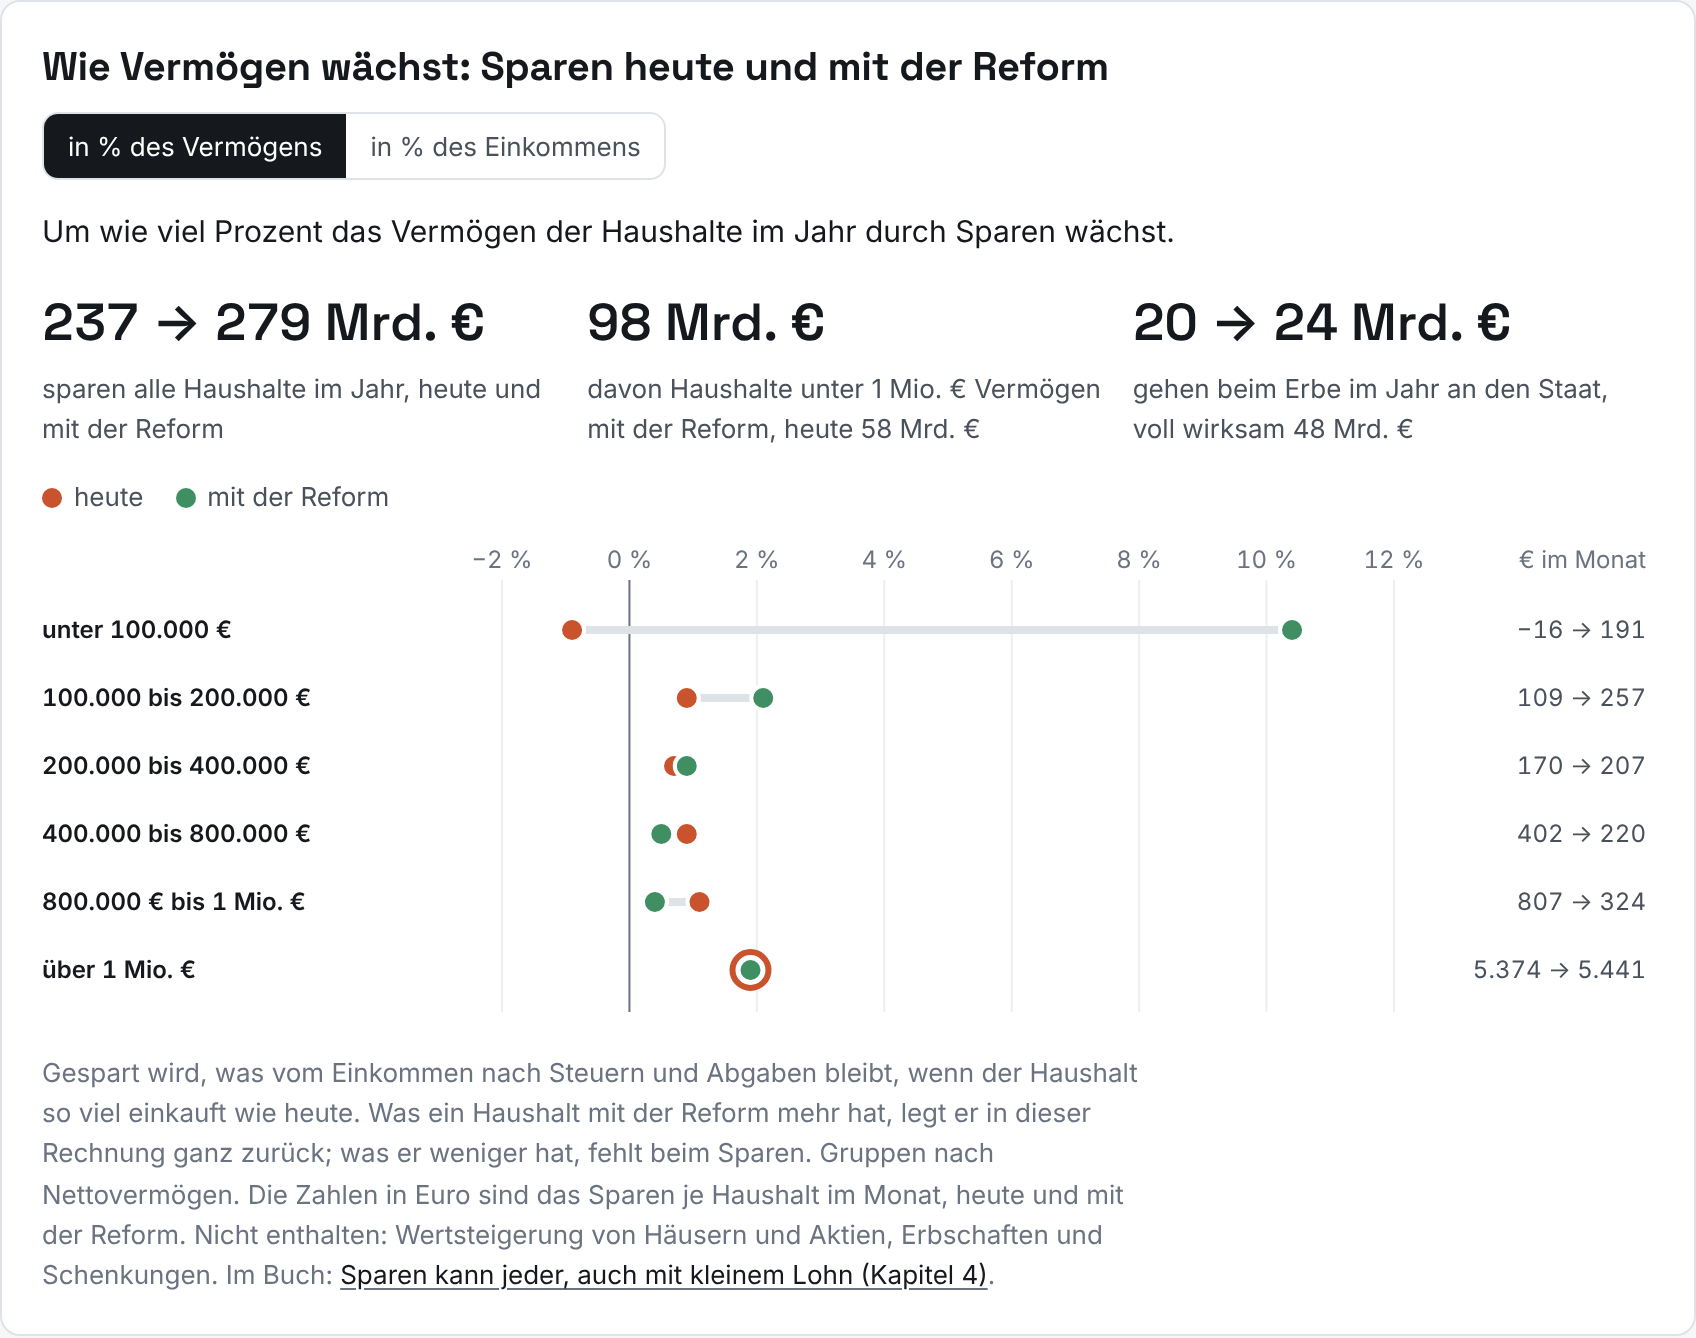
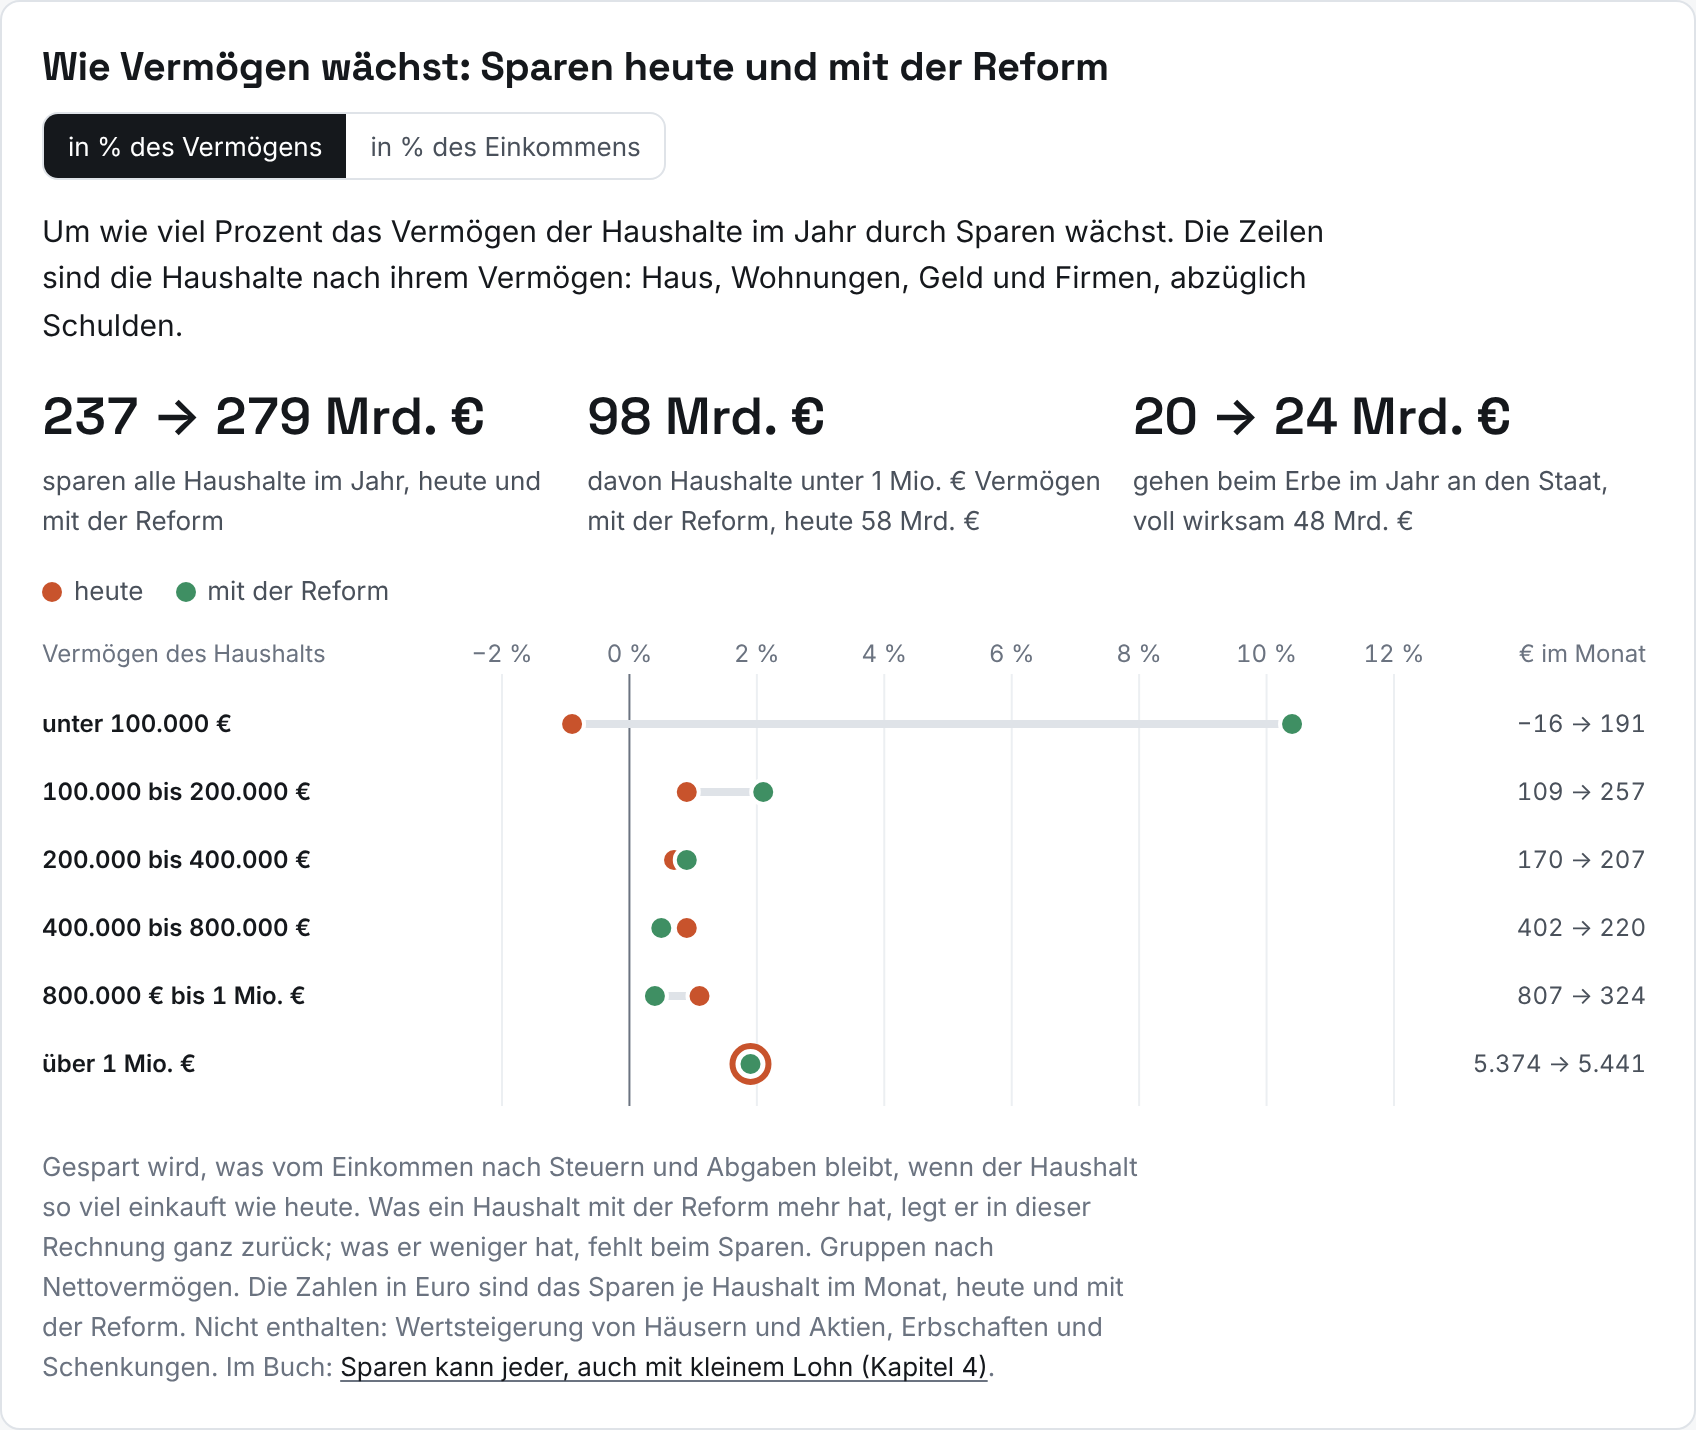
Spargrafik: Zeilen als Vermögen des Haushalts beschriftet
Claude-Session: https://claude.ai/code/session_012Y93VahXFS6g12MhaJDFsB

diff --git a/mikrosim/steuerlast/index.html b/mikrosim/steuerlast/index.html
@@ -381,7 +381,7 @@ let mass = "v";
 function aufbau() {
   const Z = D.aufbau, ziel = $("d7");
   const qH = z => mass === "v" ? z.wachstum_heute : z.sparquote_heute, qR = z => mass === "v" ? z.wachstum_reform : z.sparquote_reform;
-  $("text7").textContent = mass === "v" ? "Um wie viel Prozent das Vermögen der Haushalte im Jahr durch Sparen wächst." : "Wie viel Prozent ihres Einkommens die Haushalte im Jahr sparen.";
+  $("text7").textContent = mass === "v" ? "Um wie viel Prozent das Vermögen der Haushalte im Jahr durch Sparen wächst. Die Zeilen sind die Haushalte nach ihrem Vermögen: Haus, Wohnungen, Geld und Firmen, abzüglich Schulden." : "Wie viel Prozent ihres Einkommens die Haushalte im Jahr sparen. Die Zeilen sind die Haushalte nach ihrem Vermögen: Haus, Wohnungen, Geld und Firmen, abzüglich Schulden.";
   const W = Math.max(320, Math.round(ziel.clientWidth || 800)), eng = W < 600;
   const links = eng ? 150 : 230, rechts = eng ? 8 : 130, zh = eng ? 42 : 34, oben = 26, H = oben + Z.length * zh + 10;
   const werte = Z.flatMap(z => [qH(z), qR(z)]);
@@ -394,6 +394,7 @@ function aufbau() {
     svg.append(el("text", { x: sx(t), y: 12, "text-anchor": "middle", class: "leise" }, (t < 0 ? "−" : "") + Math.abs(t) + " %"));
   }
   if (!eng) svg.append(el("text", { x: W - 4, y: 12, "text-anchor": "end", class: "leise" }, "€ im Monat"));
+  svg.append(el("text", { x: 0, y: 12, class: "leise" }, "Vermögen des Haushalts"));
   Z.forEach((z, k) => {
     const y = oben + k * zh + zh / 2, h = qH(z), r = qR(z), g = el("g");
     g.append(el("rect", { x: 0, y: y - zh / 2, width: W, height: zh, fill: "transparent" }));

diff --git a/mikrosim/steuerlast/vorlage.html b/mikrosim/steuerlast/vorlage.html
@@ -381,7 +381,7 @@ let mass = "v";
 function aufbau() {
   const Z = D.aufbau, ziel = $("d7");
   const qH = z => mass === "v" ? z.wachstum_heute : z.sparquote_heute, qR = z => mass === "v" ? z.wachstum_reform : z.sparquote_reform;
-  $("text7").textContent = mass === "v" ? "Um wie viel Prozent das Vermögen der Haushalte im Jahr durch Sparen wächst." : "Wie viel Prozent ihres Einkommens die Haushalte im Jahr sparen.";
+  $("text7").textContent = mass === "v" ? "Um wie viel Prozent das Vermögen der Haushalte im Jahr durch Sparen wächst. Die Zeilen sind die Haushalte nach ihrem Vermögen: Haus, Wohnungen, Geld und Firmen, abzüglich Schulden." : "Wie viel Prozent ihres Einkommens die Haushalte im Jahr sparen. Die Zeilen sind die Haushalte nach ihrem Vermögen: Haus, Wohnungen, Geld und Firmen, abzüglich Schulden.";
   const W = Math.max(320, Math.round(ziel.clientWidth || 800)), eng = W < 600;
   const links = eng ? 150 : 230, rechts = eng ? 8 : 130, zh = eng ? 42 : 34, oben = 26, H = oben + Z.length * zh + 10;
   const werte = Z.flatMap(z => [qH(z), qR(z)]);
@@ -394,6 +394,7 @@ function aufbau() {
     svg.append(el("text", { x: sx(t), y: 12, "text-anchor": "middle", class: "leise" }, (t < 0 ? "−" : "") + Math.abs(t) + " %"));
   }
   if (!eng) svg.append(el("text", { x: W - 4, y: 12, "text-anchor": "end", class: "leise" }, "€ im Monat"));
+  svg.append(el("text", { x: 0, y: 12, class: "leise" }, "Vermögen des Haushalts"));
   Z.forEach((z, k) => {
     const y = oben + k * zh + zh / 2, h = qH(z), r = qR(z), g = el("g");
     g.append(el("rect", { x: 0, y: y - zh / 2, width: W, height: zh, fill: "transparent" }));
